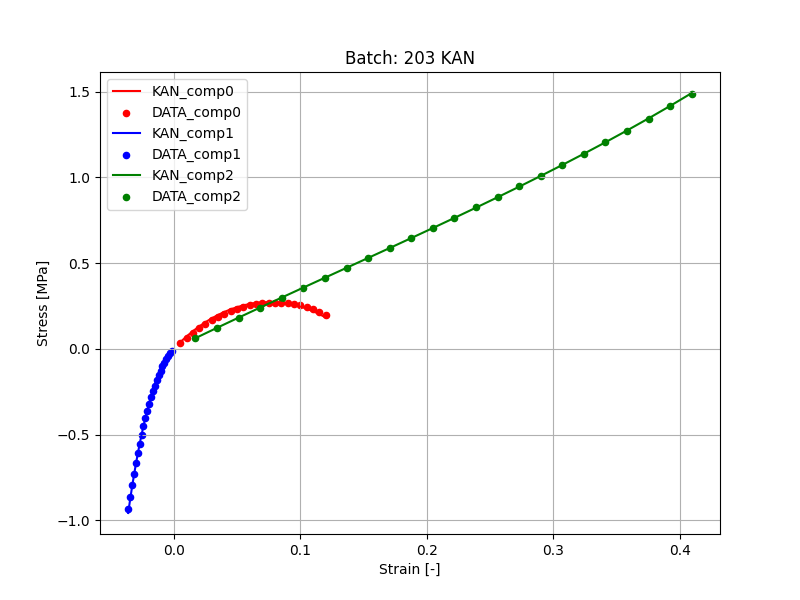
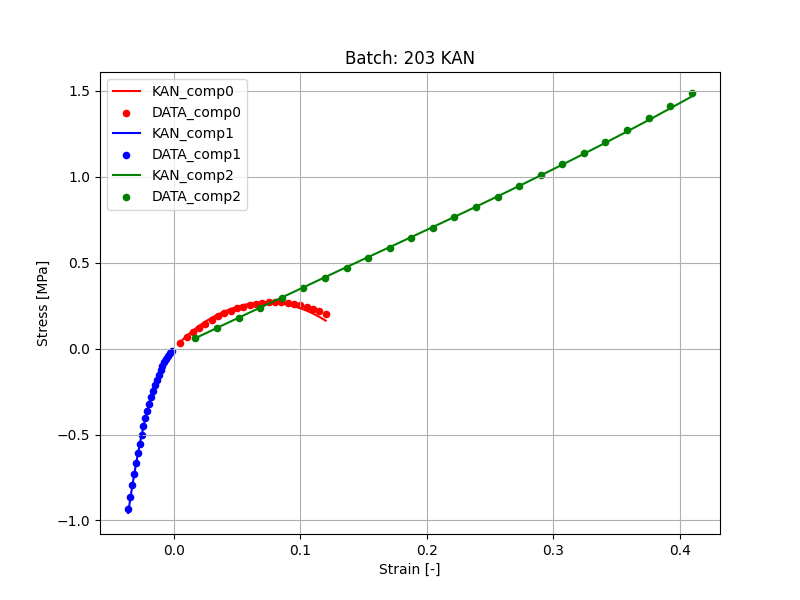
add tangent computation

diff --git a/data_sets/KAN_ann.py b/data_sets/KAN_ann.py
@@ -25,7 +25,7 @@ from sklearn.model_selection import train_test_split
 """
 INPUT DATASET:
 """
-n_epochs = 1000
+n_epochs = 200
 learning_rate = 0.05
 number_of_steps = 25
 ADD_NOISE = False
@@ -76,7 +76,7 @@ class KANStressPredictor(nn.Module):
         super(KANStressPredictor, self).__init__()
 
         self.order_stretches = 1  # Number of orders (can be set to any value)
-        self.k = 3  # Degree of splines
+        self.k = 2  # Degree of splines
         self.grid = 3  # Number of knots
 
         self.input_size = 2 * self.order_stretches + 1  # Total inputs: 2 * reg_eigenvalues for each order + 1 * log(J)
@@ -178,6 +178,53 @@ class KANStressPredictor(nn.Module):
 
         return grad - grad_at_zero
 
+    def ComputeHessian(self, strain):
+        """
+        Compute the Hessian (gradient of the gradient) of the model's output with respect to the strain.
+        Check that the eigenvalues of the Hessian are positive for each strain.
+
+        Args:
+            strain (torch.Tensor): Input strain tensor of shape (batches, steps, strain_size).
+
+        Returns:
+            hessian_eigenvalues (torch.Tensor): Eigenvalues of the Hessian for each strain.
+        """
+        strain = strain.detach().requires_grad_(True)  # Ensure strain requires gradients
+
+        # Compute the first gradient (Jacobian)
+        W = self.CalculateW(strain)  # Shape: (batches, steps, 1)
+        grad = torch.autograd.grad(
+            outputs=W,
+            inputs=strain,
+            grad_outputs=torch.ones_like(W),
+            create_graph=True
+        )[0]  # Shape: (batches, steps, strain_size)
+
+        # Compute the second gradient (Hessian)
+        hessian = []
+        for i in range(strain.shape[-1]):  # Loop over strain components
+            grad_i = grad[..., i]  # Select the i-th component of the gradient
+            hessian_row = torch.autograd.grad(
+                outputs=grad_i,
+                inputs=strain,
+                grad_outputs=torch.ones_like(grad_i),
+                create_graph=True
+            )[0]  # Shape: (batches, steps, strain_size)
+            hessian.append(hessian_row)
+
+        # Stack the Hessian rows to form the full Hessian matrix
+        hessian = torch.stack(hessian, dim=-1)  # Shape: (batches, steps, strain_size, strain_size)
+
+        # Compute eigenvalues of the Hessian for each strain
+        hessian_eigenvalues = torch.linalg.eigvalsh(hessian)  # Shape: (batches, steps, strain_size)
+
+        # Check if all eigenvalues are positive
+        is_positive_definite = (hessian_eigenvalues > 0).all(dim=-1)  # Shape: (batches, steps)
+        if not is_positive_definite.all():
+            print("Warning: Hessian is not positive definite for some strains.")
+
+        return hessian
+
 #==========================================================================================
 
 # Initialize model, optimizer, and loss function
@@ -237,6 +284,10 @@ print("self.ki[1]: ",model.ki[1].data)
 # print("\nNull strain post training KAN prediction: ", 1.0e6*null_prediction_ANN)
 
 torch.save(model.state_dict(), "KAN_model_weights.pth")
+
+Hessian = model.ComputeHessian(ref_strain_database[:, :, :])  # Check the Hessian for the first batch
+
+# print(Hessian)
 
 
 # Define the GetColor method
